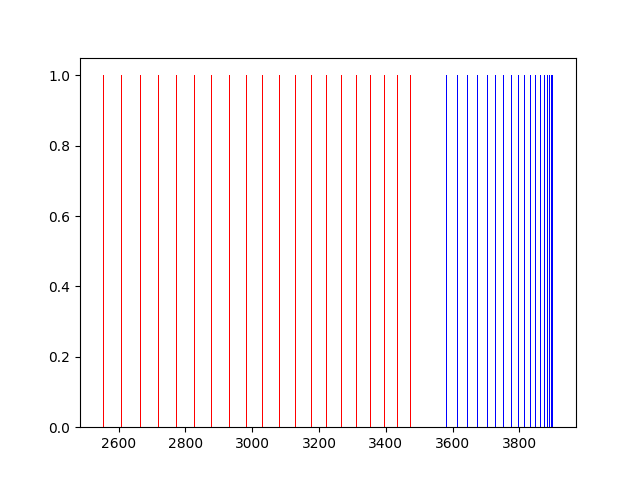
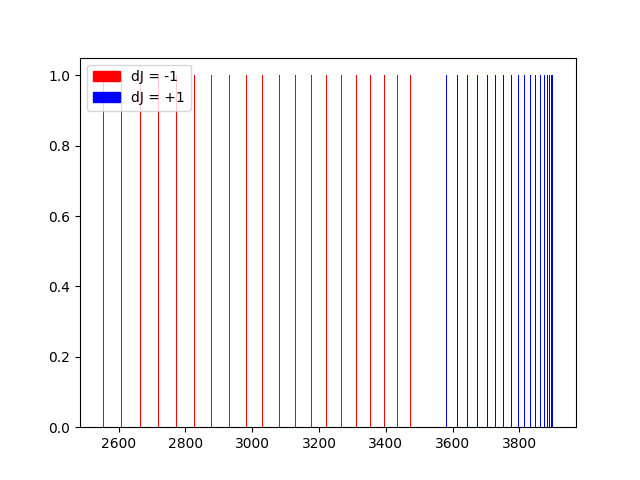
patches in rovibrational plot

Changed region(s): [[0.125, 0.125, 0.3125, 0.25]]

diff --git a/data/rovibrational-plotter.py b/data/rovibrational-plotter.py
@@ -1,4 +1,5 @@
 import matplotlib.pyplot as plt
+import matplotlib.patches as mpatches
 
 def is_number(s):
     try:
@@ -26,9 +27,6 @@ for line in lines:
         if is_number(line.split()[0]):
             transitions_m.append(float(line.split()[0]))
 
-print transitions_p
-print transitions_m
-
 height_p = [1] * len(transitions_p)
 height_m = [1] * len(transitions_m)
 
@@ -36,6 +34,11 @@ width = 3
 
 plt.bar(transitions_p, height_p, width, color = "blue")
 plt.bar(transitions_m, height_m, width, color = "red")
+
+red_patch = mpatches.Patch(color = 'red', label = 'dJ = -1')
+blue_patch = mpatches.Patch(color = 'blue', label = 'dJ = +1')
+
+plt.legend(handles = [red_patch, blue_patch])
 
 #plt.show()
 plt.savefig("rovibrational_transitions.png")
